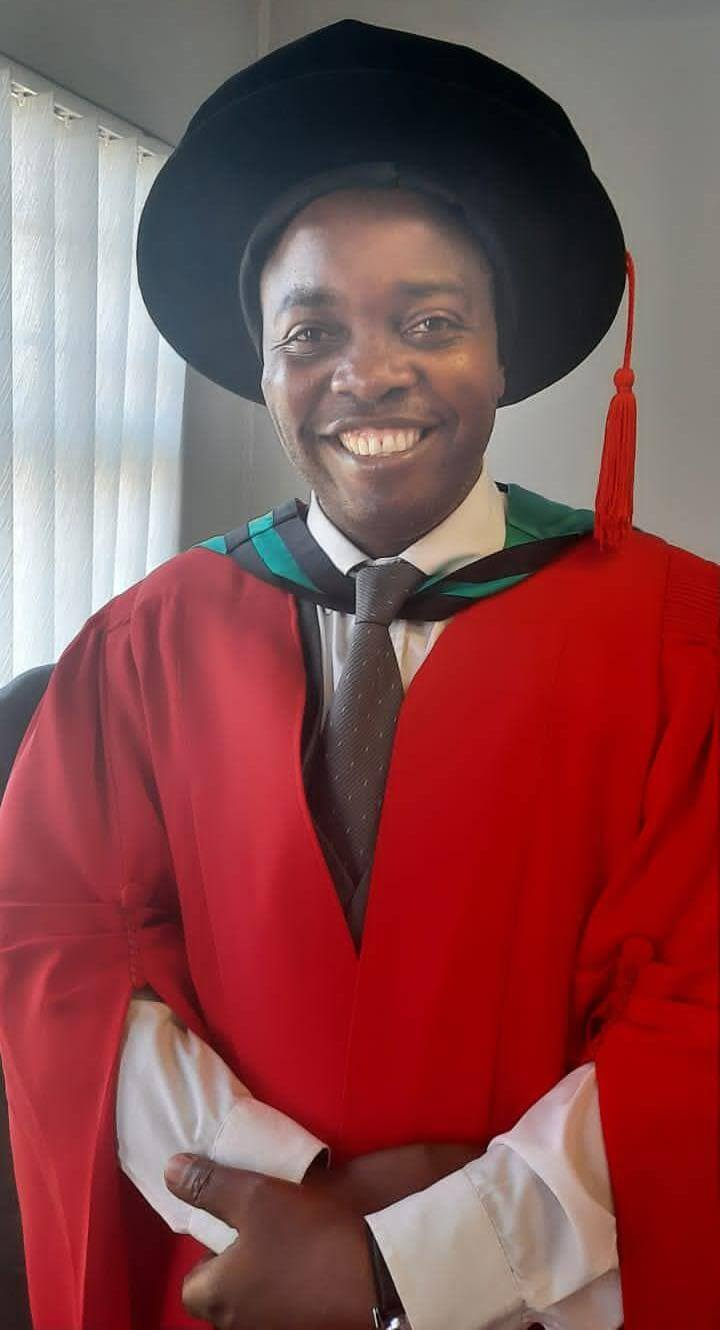
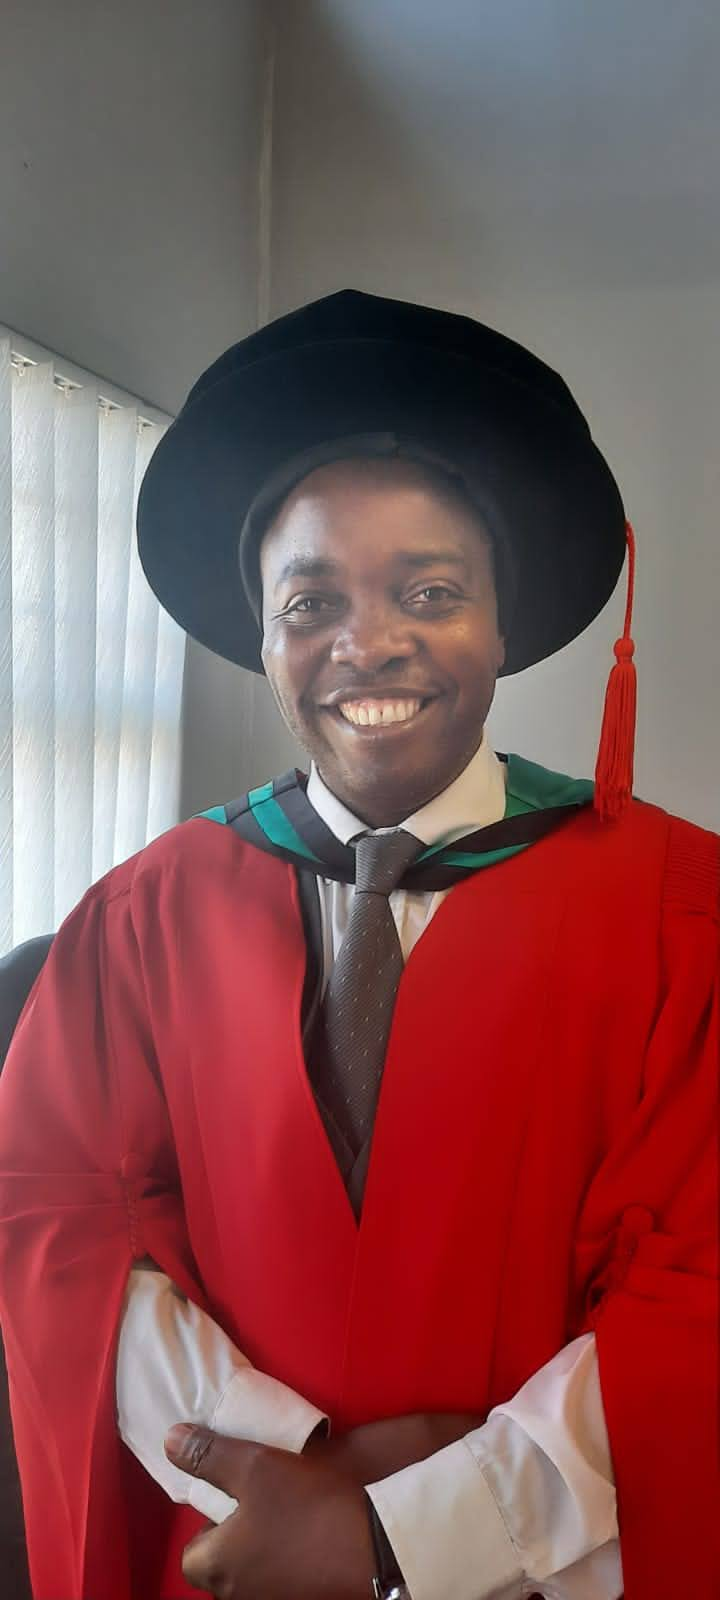
Fixes intro image positioning.

diff --git a/style.css b/style.css
@@ -57,12 +57,12 @@ body {
 }
 .intro-img-container {
 	background: url("./img/grad.jpg");
-	background-size: 50%;
+	background-size: 40%;
 	background-attachment: fixed;
 	background-repeat: no-repeat;
-	background-position: top right;
+	background-position: right -120px;
 	width: 100%;
-	margin-bottom: 50px;
+	margin: 50px 0 100px 0;
 }
 
 /* ABOUT */
@@ -436,10 +436,6 @@ p {
 	#intro .intro-text h1 {
 		padding-top: 100px;
 	}
-
-	#intro .intro-img {
-		height: 800px;
-	}
 }
 
 /*        X     Viewport less then or equal to 1440px      X     */
@@ -453,10 +449,6 @@ p {
 
 	#intro .intro-text h1 {
 		padding-top: 100px;
-	}
-
-	#intro .intro-img {
-		height: 700px;
 	}
 
 	#quote {
@@ -488,9 +480,8 @@ p {
 		padding-top: 100px;
 	}
 
-	#intro .intro-img {
-		padding-left: 0;
-		height: 400px;
+	#intro .intro-img-container {
+		background-position: right 0px;
 	}
 
 	#education-container .education-items {
@@ -547,10 +538,6 @@ p {
 	#intro .intro-text h1 {
 		padding-top: 100px;
 		font-size: 60px;
-	}
-
-	#intro .intro-img {
-		height: 450px;
 	}
 
 	.cont-contactBtn {
